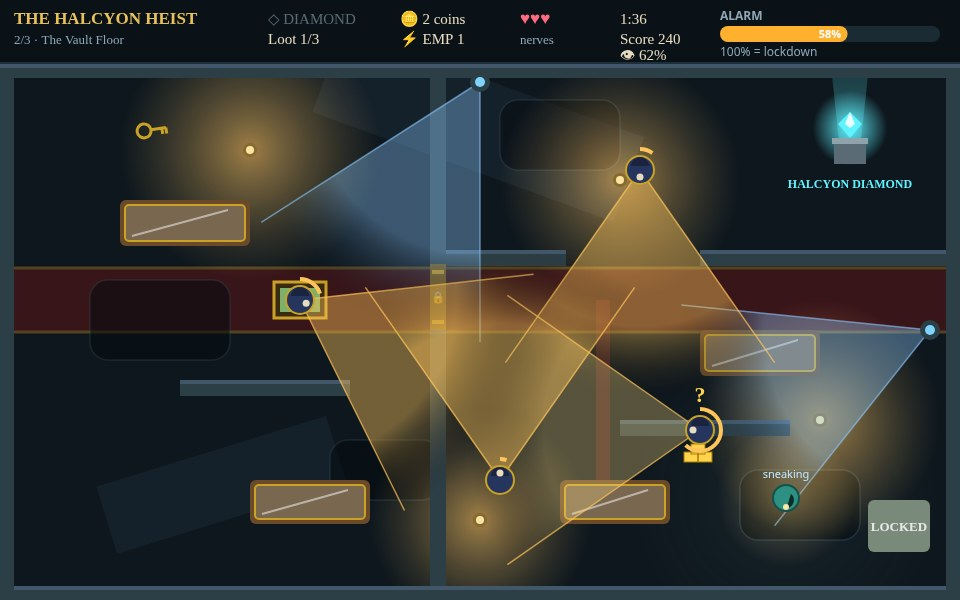
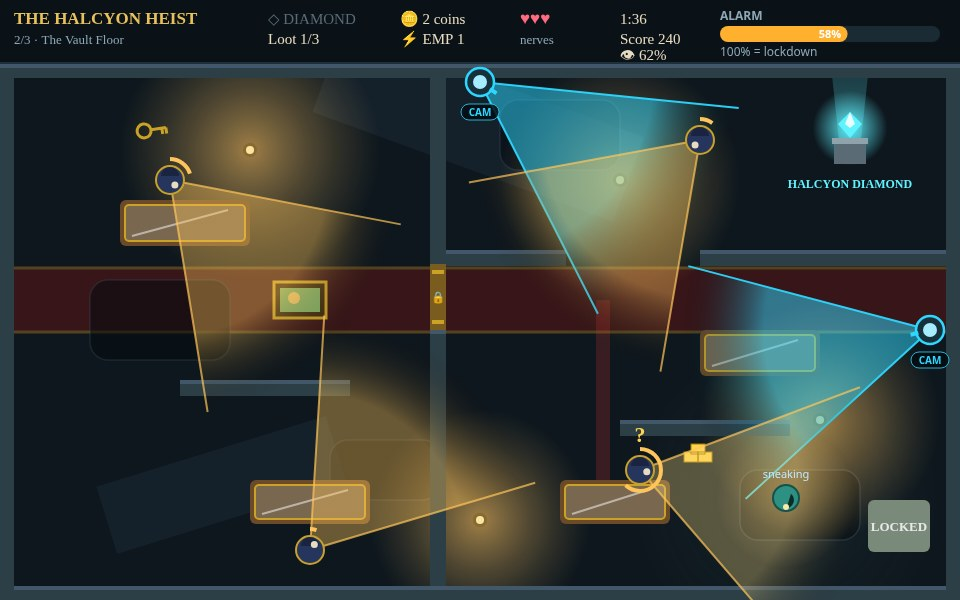
Cover readability: unmistakable cameras, separated guard cones
- render.js: camera cones now vivid cyan (was pale blue wash), mounts
  enlarged with cyan ring + lens + aim nub, and a dark-pill CAM tag
  under each mount; cone edges 2px; guard cone fill slightly trimmed
  so overlaps read as crossing wedges, not a blob.
- shots.js (cover staging only): the four level-2 guards move to the
  four corners and aim outward, cameras aim apart (top one down-right,
  right-edge one left), so all four amber cones and both cyan cones
  read separately at 768x480.
- All 4 screenshots re-rendered with the same headless flow.

diff --git a/game/src/render.js b/game/src/render.js
@@ -159,7 +159,7 @@ function drawCone(ctx, x, y, angle, range, halfAngle, fill, edge) {
   ctx.fillStyle = grad;
   ctx.fill();
   ctx.strokeStyle = edge;
-  ctx.lineWidth = 1.5;
+  ctx.lineWidth = 2;
   ctx.beginPath();
   ctx.moveTo(x, y);
   ctx.lineTo(x + Math.cos(angle - halfAngle) * range, y + Math.sin(angle - halfAngle) * range);
@@ -310,18 +310,42 @@ function drawLootAndDiamond(ctx, world) {
 function drawCameras(ctx, world) {
   for (const camera of world.cameras) {
     const disabled = camera.disabledTimer > 0;
-    const fill = disabled ? 'rgba(120, 130, 140, 0.14)' : camera.spotting ? 'rgba(255, 60, 50, 0.5)' : 'rgba(140, 200, 255, 0.36)';
-    const edge = disabled ? 'rgba(120, 130, 140, 0.4)' : camera.spotting ? 'rgba(255, 60, 50, 0.85)' : 'rgba(140, 200, 255, 0.6)';
+    // Cameras read cyan-blue, never amber: a guard cone and a camera cone
+    // must be tellable apart at thumbnail size, so the camera cone is a
+    // vivid cyan with a hard edge instead of the old pale blue wash.
+    const fill = disabled ? 'rgba(120, 130, 140, 0.14)' : camera.spotting ? 'rgba(255, 60, 50, 0.5)' : 'rgba(45, 215, 255, 0.5)';
+    const edge = disabled ? 'rgba(120, 130, 140, 0.4)' : camera.spotting ? 'rgba(255, 60, 50, 0.9)' : 'rgba(45, 215, 255, 0.95)';
     drawCone(ctx, camera.x, camera.y, camera.angle, camera.range, 0.5, fill, edge);
-    // Mount: a small dome on the wall.
-    ctx.fillStyle = disabled ? '#5a636b' : '#2c3e46';
+    // Mount: a big dome with a bright lens and a barrel nub showing where
+    // it looks, ringed in cyan so it never blends into the wall or floor.
+    ctx.fillStyle = disabled ? '#5a636b' : '#16303c';
     ctx.beginPath();
-    ctx.arc(camera.x, camera.y, 10, 0, Math.PI * 2);
+    ctx.arc(camera.x, camera.y, 14, 0, Math.PI * 2);
     ctx.fill();
-    ctx.fillStyle = disabled ? '#8a939b' : camera.spotting ? '#ff3b30' : '#7fd4ff';
+    ctx.strokeStyle = disabled ? '#8a939b' : '#2dd7ff';
+    ctx.lineWidth = 2.5;
+    ctx.stroke();
+    ctx.strokeStyle = disabled ? '#8a939b' : '#2dd7ff';
+    ctx.lineWidth = 4;
     ctx.beginPath();
-    ctx.arc(camera.x, camera.y, 5, 0, Math.PI * 2);
+    ctx.moveTo(camera.x + Math.cos(camera.angle) * 12, camera.y + Math.sin(camera.angle) * 12);
+    ctx.lineTo(camera.x + Math.cos(camera.angle) * 20, camera.y + Math.sin(camera.angle) * 20);
+    ctx.stroke();
+    ctx.fillStyle = disabled ? '#8a939b' : camera.spotting ? '#ff3b30' : '#a5ecff';
+    ctx.beginPath();
+    ctx.arc(camera.x, camera.y, 7, 0, Math.PI * 2);
     ctx.fill();
+    // "CAM" tag under the mount, on a dark pill so it reads over any cone.
+    ctx.fillStyle = 'rgba(4, 12, 18, 0.85)';
+    roundRect(ctx, camera.x - 19, camera.y + 22, 38, 16, 8);
+    ctx.fill();
+    ctx.strokeStyle = disabled ? 'rgba(140, 150, 160, 0.7)' : 'rgba(45, 215, 255, 0.8)';
+    ctx.lineWidth = 1;
+    ctx.stroke();
+    ctx.fillStyle = disabled ? '#9aa5ad' : '#2dd7ff';
+    ctx.font = 'bold 10px system-ui, sans-serif';
+    ctx.textAlign = 'center';
+    ctx.fillText('CAM', camera.x, camera.y + 34);
     if (disabled) {
       ctx.fillStyle = '#e8e8e8';
       ctx.font = 'bold 11px system-ui, sans-serif';
@@ -335,7 +359,7 @@ function drawGuards(ctx, world) {
   for (const guard of world.guards) {
     const alerted = guard.state === 'alerted';
     const suspicious = guard.state === 'suspicious' || guard.state === 'search';
-    const fill = alerted ? 'rgba(255, 70, 60, 0.5)' : suspicious ? 'rgba(255, 220, 130, 0.3)' : 'rgba(255, 196, 90, 0.42)';
+    const fill = alerted ? 'rgba(255, 70, 60, 0.5)' : suspicious ? 'rgba(255, 220, 130, 0.3)' : 'rgba(255, 196, 90, 0.38)';
     const edge = alerted ? 'rgba(255, 70, 60, 0.8)' : 'rgba(255, 196, 90, 0.7)';
     drawCone(ctx, guard.x, guard.y, guard.angle, 235, 0.61, fill, edge);
     // Body: navy uniform with gold trim and a cap.

diff --git a/game/src/shots.js b/game/src/shots.js
@@ -223,6 +223,9 @@ export function stageShot(name) {
   // Default: the cover — level 2 mid-play, all five required elements in
   // one frame: the vault room, guard cones, camera cones, the diamond and
   // the alarm meter, with Rook hiding in a shadow pool by a display case.
+  // The four guards stand in the four corners of the floor and aim
+  // outward, so no two cone tips land in the same place: each amber wedge
+  // reads on its own at thumbnail size instead of merging into one blob.
   const world = createWorld(1);
   world.time = 24;
   world.alarm = 58;
@@ -234,17 +237,20 @@ export function stageShot(name) {
   world.player.loot = 1;
   world.lootTaken.add(2);
   const g0 = world.guards[0];
-  g0.x = 300; g0.y = 300; g0.angle = 0.5; g0.detection = 0.2;
+  g0.x = 170; g0.y = 180; g0.angle = 0.8; g0.detection = 0.2;
   const g1 = world.guards[1];
-  g1.x = 640; g1.y = 170; g1.angle = Math.PI / 2; g1.detection = 0.1;
+  g1.x = 700; g1.y = 140; g1.angle = 2.35; g1.detection = 0.1;
   const g2 = world.guards[2];
-  g2.x = 700; g2.y = 430; g2.angle = Math.PI; g2.detection = 0.62;
+  g2.x = 640; g2.y = 470; g2.angle = 0.25; g2.detection = 0.62;
   g2.state = 'suspicious';
   g2.target = { x: 786, y: 498 };
   const g3 = world.guards[3];
-  g3.x = 500; g3.y = 480; g3.angle = -Math.PI / 2; g3.detection = 0.05;
-  world.cameras[0].angle = Math.PI / 2 + 0.5;
-  world.cameras[1].angle = Math.PI - 0.4;
+  g3.x = 310; g3.y = 550; g3.angle = -0.9; g3.detection = 0.05;
+  // Cameras aim apart too: the top one sweeps down-right across the upper
+  // floor, the right-edge one looks left across the middle, so the two
+  // cyan cones never stack on each other or on the diamond.
+  world.cameras[0].angle = 0.6;
+  world.cameras[1].angle = 2.9;
   world.score = 240;
   world.levelTime = 96;
   return { world, screen: 'play' };
